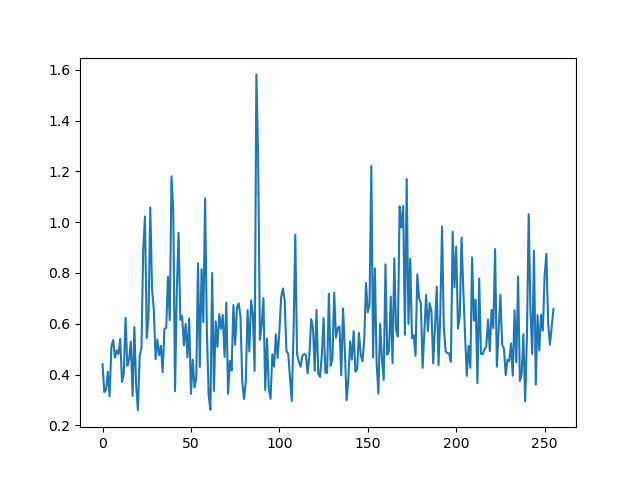
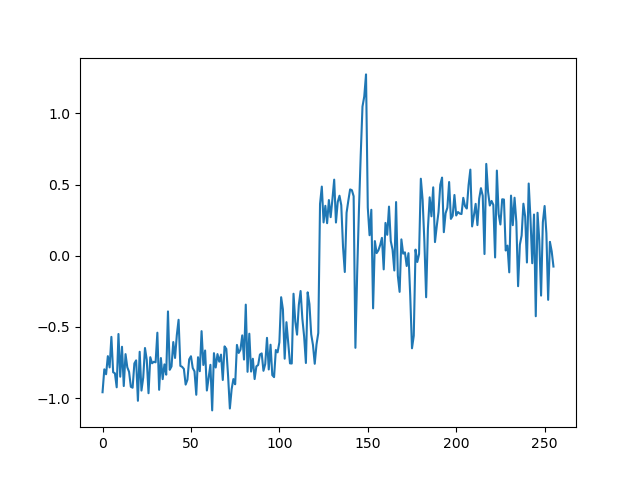
hybrid continue with no kl weights

diff --git a/src/check_checkpoint.py b/src/check_checkpoint.py
@@ -13,7 +13,8 @@ import matplotlib.pyplot as plt
 
 # CHECKPOINT = 'local_data/proto-zlm_asym-beta/000000042500'
 # CHECKPOINT = 'local_data/proto-zlm_asym-beta-grad/000000005000'
-CHECKPOINT = 'local_data/proto-zlm_hybrid-alpha/000000045000'
+# CHECKPOINT = 'local_data/proto-zlm_hybrid-alpha/000000045000'
+CHECKPOINT = 'local_data/proto-zlm_hybrid-cosine-easy/000000062500'
 
 
 def slerp(val, low, high):
@@ -60,14 +61,14 @@ def main():
 
     output = model.sample(
         tokens,
-        temperature=0.5,
+        temperature=0.75,
     )
 
     kl = (
         output.mu[0] - output.mu[1]
     ).pow(2).sum(dim=-1) / 2
 
-    plt.plot(kl.detach().cpu().numpy())
+    plt.plot(np.log10(kl.detach().cpu().numpy()))
     plt.savefig("kl.png")
 
     with open("output.txt", "w") as f:

diff --git a/src/trainers/zlm_hybrid_trainer.py b/src/trainers/zlm_hybrid_trainer.py
@@ -132,6 +132,8 @@ class ZLmHybridTrainer(BaseTrainer):
         kl_val_per_token = (kl.mean(0) * clipped_kl_weights).sum() / model.output_length
         kl_val_multiplier = results.kl_per_token / (1e-7 + kl_val_per_token)
         final_kl_weights = clipped_kl_weights * kl_val_multiplier.detach().item()
+        if self.ignore_kl_weights:
+            final_kl_weights = torch.ones_like(final_kl_weights)
 
         kl_to_loss = (
             scale_gradient(model_out.encoder_mus_base, final_kl_weights[None, :, None, :].detach()) -
